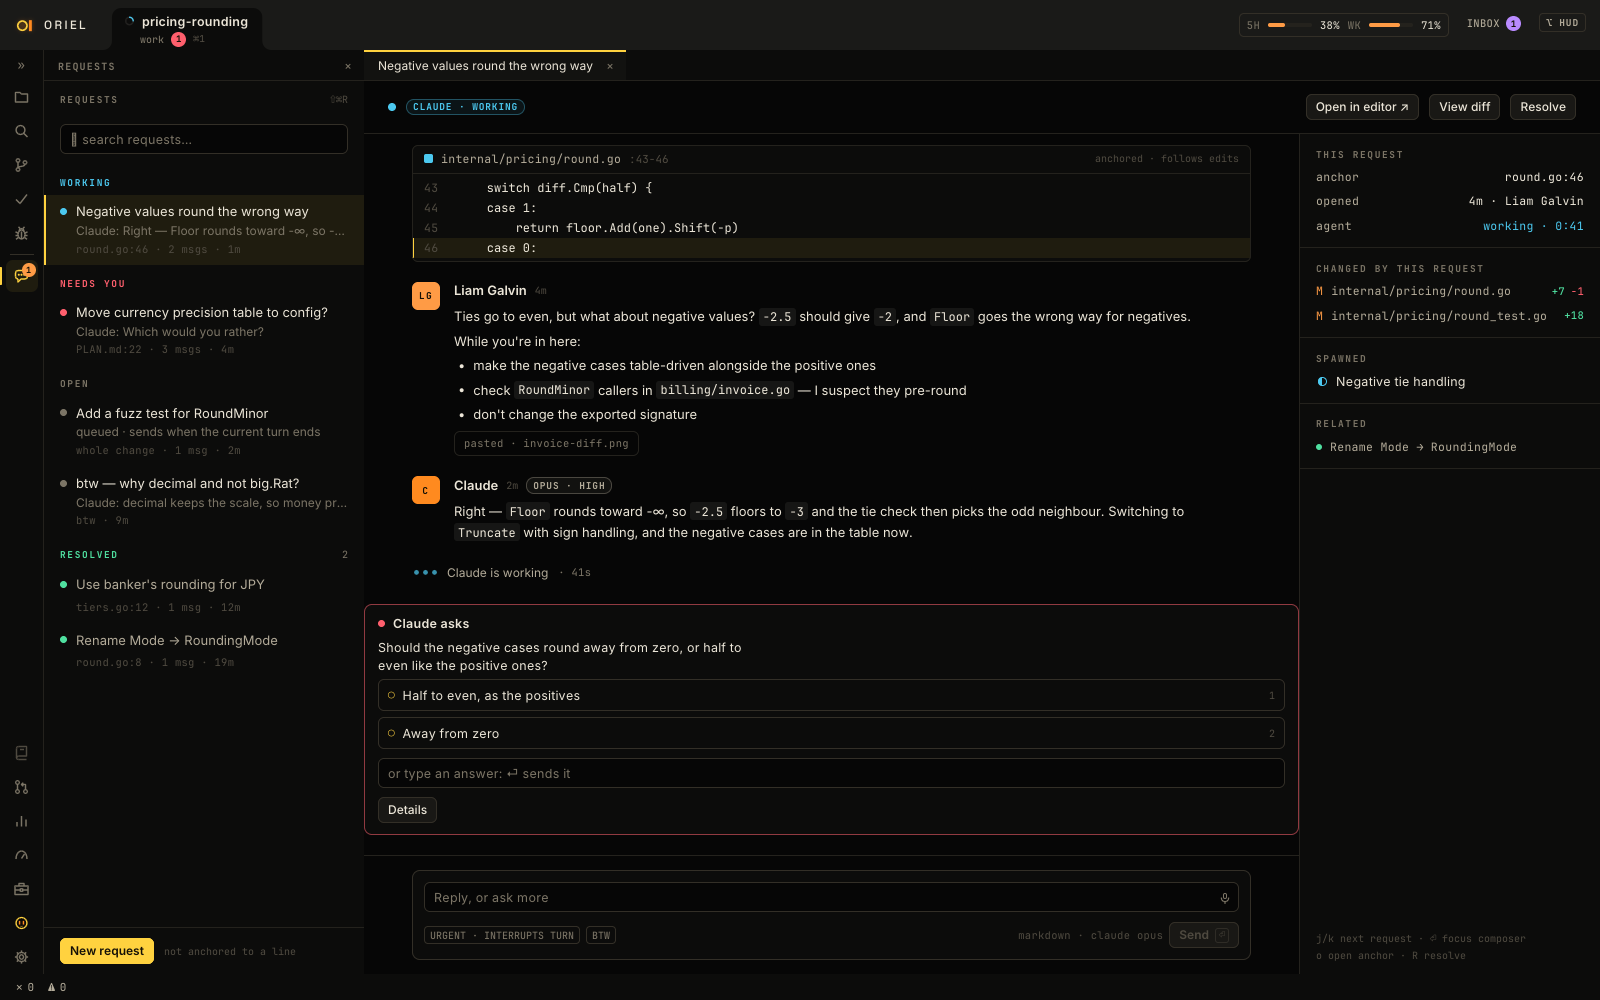
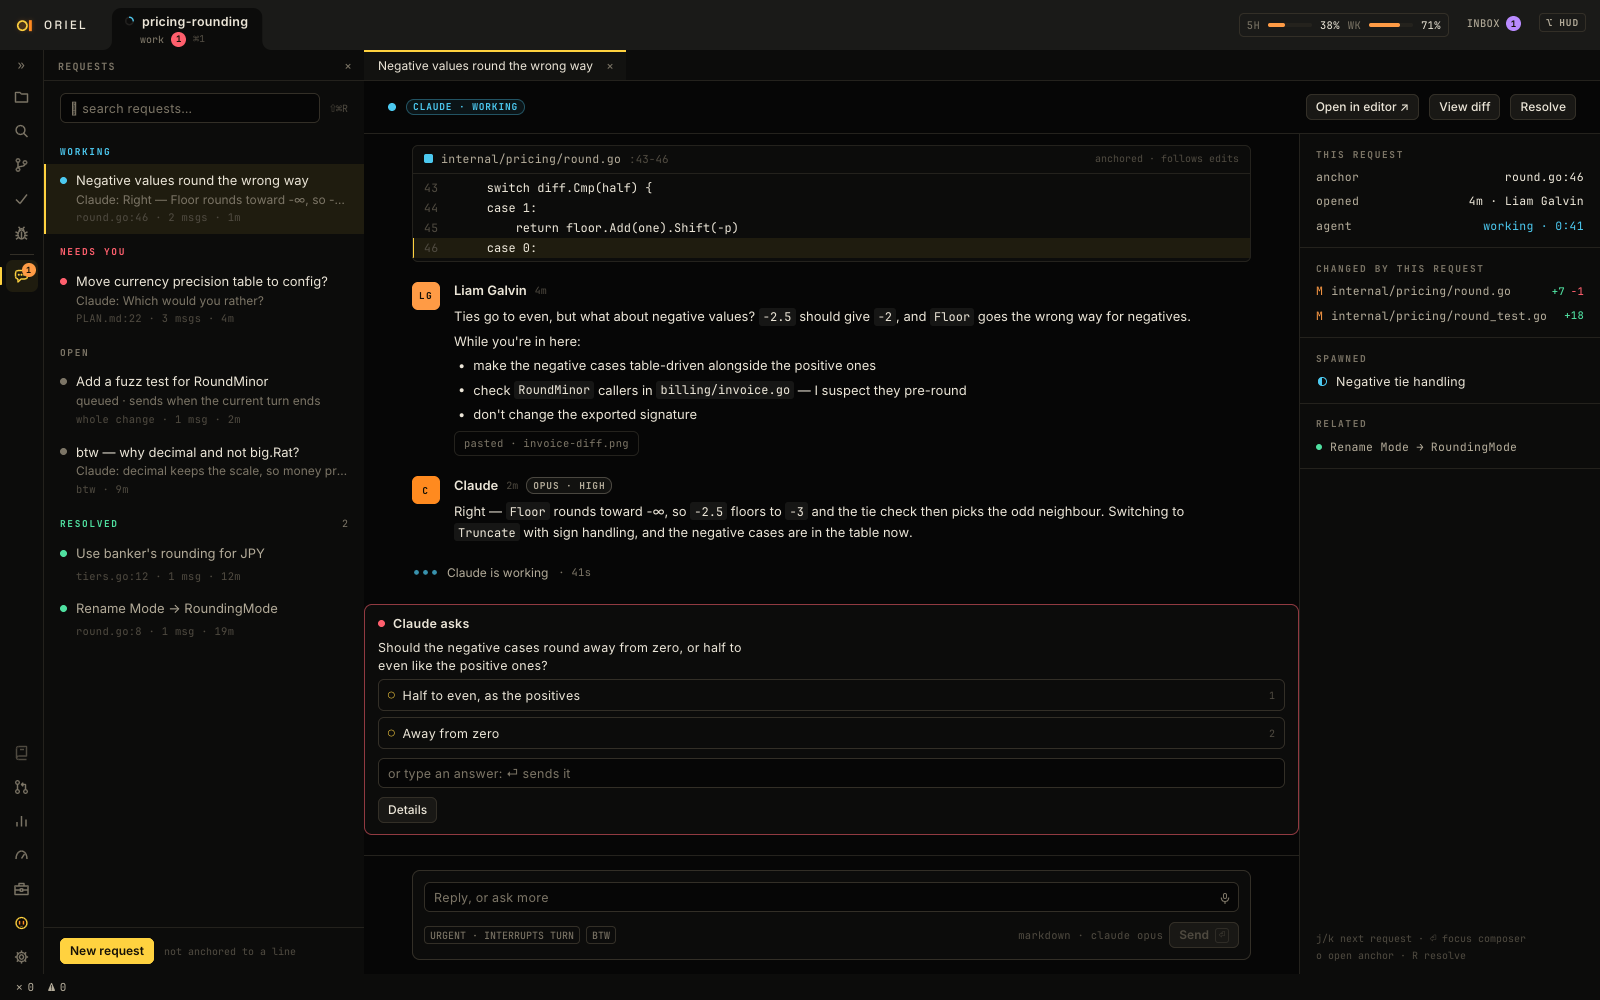
feat(requests): the panel's name shows once, on its tab; its key sits by the search

Changed region(s): [[0.0312, 0.372, 0.2188, 0.651], [0.0312, 0.093, 0.1875, 0.341]]

diff --git a/app/agentui/requestsview.go b/app/agentui/requestsview.go
@@ -59,15 +59,13 @@ func (x *Requests) listView(c *ui.Ctx, vc uireg.ViewCtx) {
 		}
 		st := x.state(se.ID)
 		sel, _ := x.selection(se, st)
-		c.Row("head", ui.Style{W: ui.Flex(1), Pad: ui.Insets{L: 16, R: 16, T: 12, B: 10}, Cross: ui.Center}, func(c *ui.Ctx) {
-			c.Text("k", "REQUESTS", kit.KickerFont(th.C(theme.FgFaint)))
-			c.Box("gap", ui.Style{W: ui.Flex(1)}, nil)
+		c.Row("search", ui.Style{W: ui.Flex(1), Pad: ui.Insets{L: 16, R: 16, T: 12, B: 10}, Gap: 10, Cross: ui.Center}, func(c *ui.Ctx) {
+			widget.Input(c, "q", &st.query, widget.InputOpts{Label: "Search requests", Placeholder: "⌕ search requests…", Help: "agent/requests#search",
+				Width: ui.Flex(1)})
+			// The panel's own key, where its name used to repeat the tab's.
 			if k := kit.BoundKey(x.h, "view.toggle", requestsArgs()); k != "" {
 				c.Text("keys", k, kit.MonoFont(10, th.C(theme.FgGhost)))
 			}
-		})
-		c.Box("search", ui.Style{W: ui.Flex(1), Pad: ui.Insets{L: 16, R: 16, T: 8, B: 10}}, func(c *ui.Ctx) {
-			widget.Input(c, "q", &st.query, widget.InputOpts{Label: "Search requests", Placeholder: "⌕ search requests…", Help: "agent/requests#search"})
 		})
 		listID := c.Next("list")
 		if st.focusList {

diff --git a/app/agentui/requests_snapshot_test.go b/app/agentui/requests_snapshot_test.go
@@ -94,3 +94,13 @@ func TestRequestsHaveNoFilterChips(t *testing.T) {
 		t.Error("the search field went with them")
 	}
 }
+
+// The view says "Requests" once: its tab names it, so the list doesn't head itself again.
+func TestRequestsAreNamedOnce(t *testing.T) {
+	s := requestsScene(t)
+	s.Run("view.open", registry.Args{"id": kit.RequestsView, "place": "dock", "edge": "left", "size": 320})
+	s.Frame()
+	if n := strings.Count(s.Text(), "REQUESTS"); n != 1 {
+		t.Errorf("REQUESTS is drawn %d times, want once, on the tab", n)
+	}
+}

diff --git a/app/shell/sidebar_test.go b/app/shell/sidebar_test.go
@@ -274,7 +274,7 @@ func TestSidebarPanelsReplaceEachOther(t *testing.T) {
 		if !shell.RailEntryActive(s.Host(), e, p.scope) {
 			t.Errorf("%s is showing, and its rail entry isn't lit", e.Title)
 		}
-		if k := kit.KeyLabel("<D-R>"); p.entry == "requests" && !strings.Contains(s.Text(), "REQUESTS\n"+k) {
+		if k := kit.KeyLabel("<D-R>"); p.entry == "requests" && !strings.Contains(s.Text(), "⌕ search requests…\n"+k) {
 			t.Errorf("Requests doesn't show its key %s:\n%s", k, s.Text())
 		}
 	}
